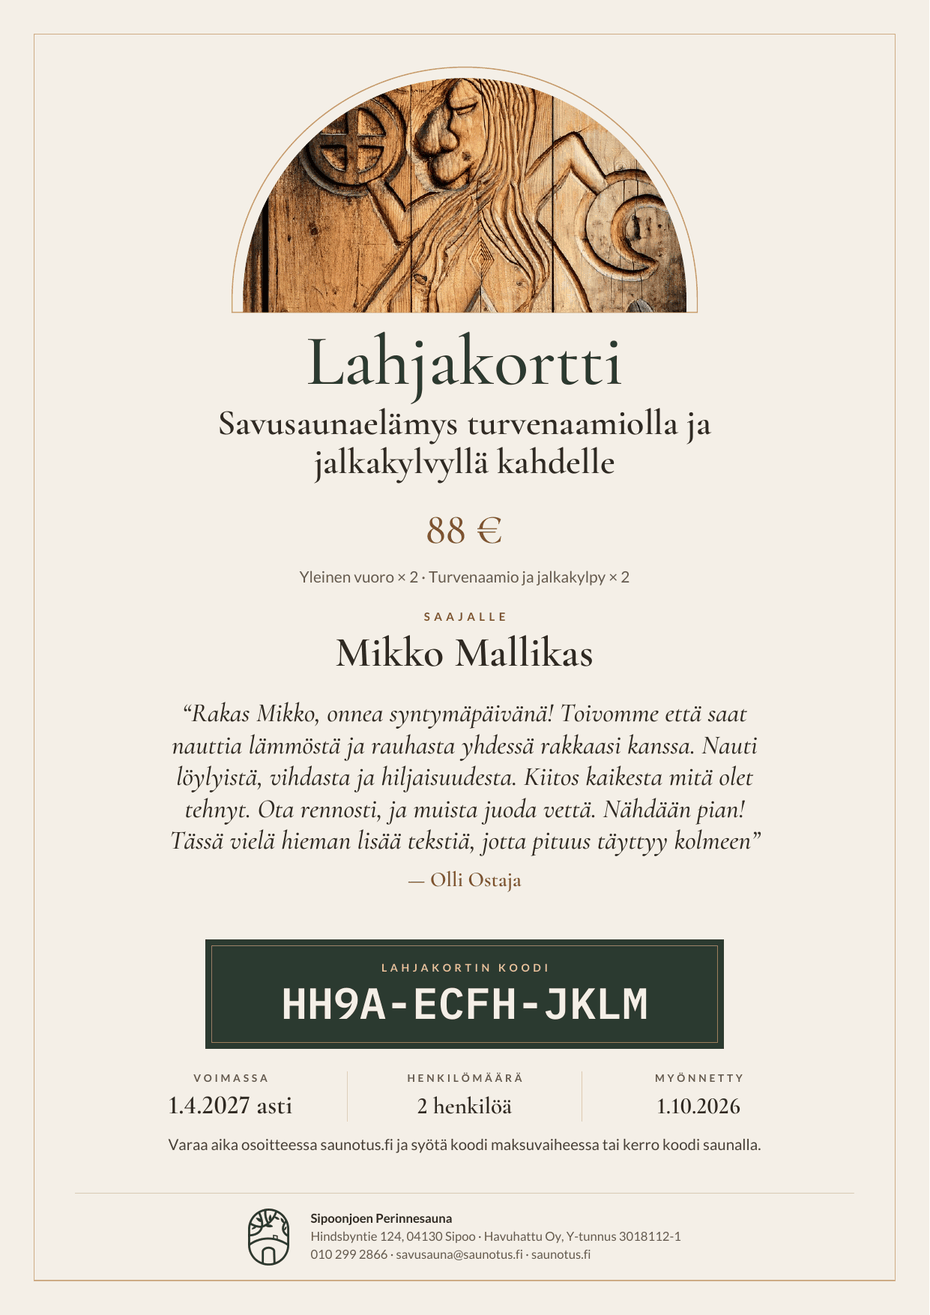
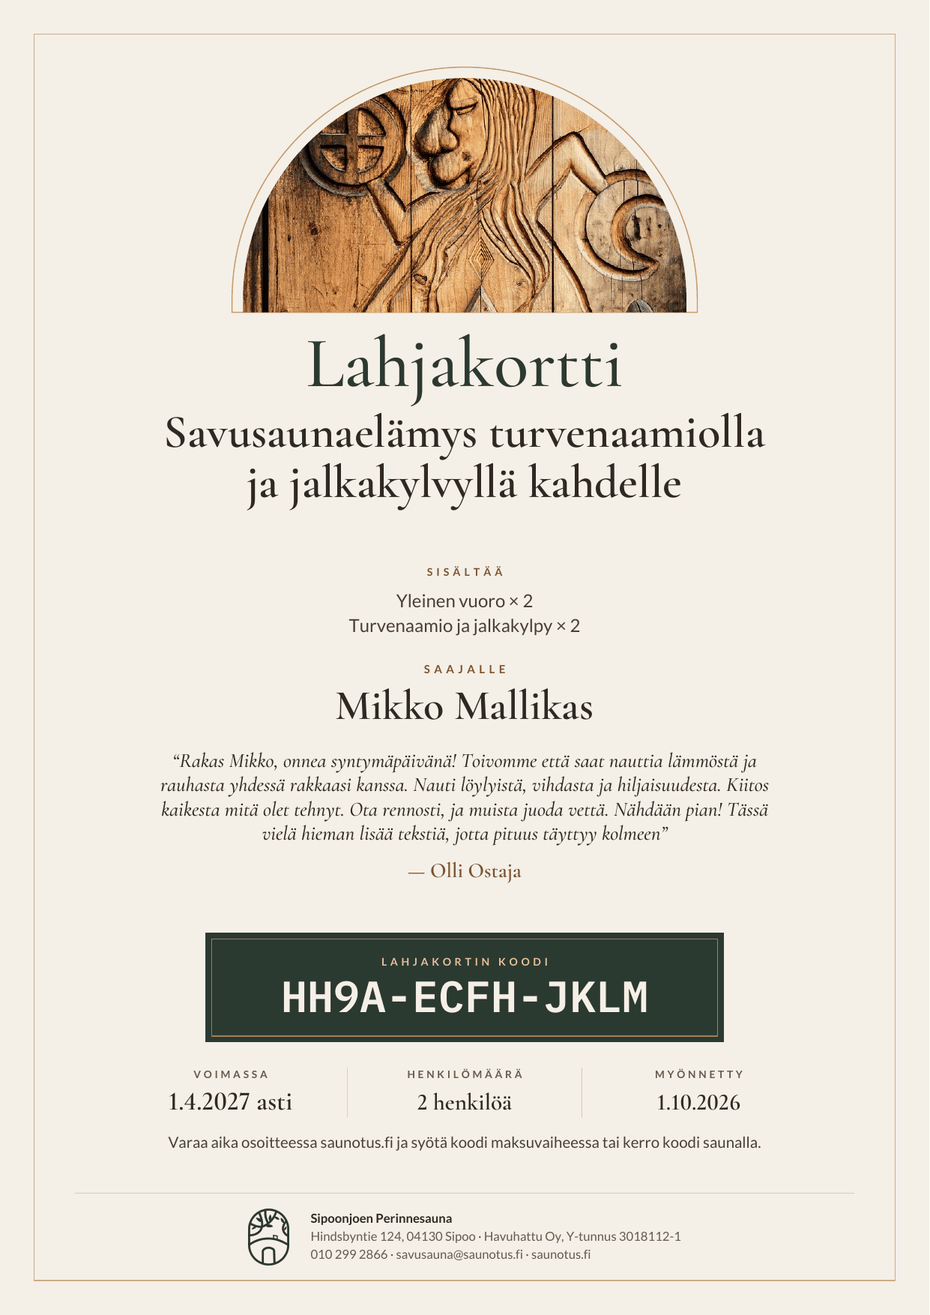
Lahjakortti-PDF ja saajan sähköposti: pakettihintaa ei näytetä saajalle (hinta vain avoimessa summakortissa); asettelu tasapainotettu, testit ja docs päivitetty

Changed region(s): [[0.1559, 0.2494, 0.8419, 0.873], [0.4054, 0.2494, 0.4366, 0.2806]]

diff --git a/booking/supabase/functions/gift-card-pdf/render.ts b/booking/supabase/functions/gift-card-pdf/render.ts
@@ -52,6 +52,11 @@ const money = (n: number, en: boolean): string => {
 const stripProto = (u: string) => String(u ?? "").replace(/^https?:\/\//, "").replace(/\/$/, "");
 const unb64 = (s: string) => Uint8Array.from(atob(s), (c) => c.charCodeAt(0));
 
+/** Avoin summakortti? */
+export const isOpenCard = (d: any): boolean => !!(d?.package?.is_open) || d?.kind === "value" && !d?.package_code || d?.package_code === "open";
+/** Näytetäänkö hinta/arvo PDF:ssä: vain avoimessa summakortissa (ja Johku-kortilla); lahjakorttipaketilla ei. */
+export const showsPrice = (d: any): boolean => isOpenCard(d) || d?.source === "johku";
+
 export interface LogoImage { bytes: Uint8Array }
 
 export async function buildGiftCardPdf(d: any, logo?: Uint8Array | null, langOverride?: string): Promise<Uint8Array> {
@@ -73,9 +78,11 @@ export async function buildGiftCardPdf(d: any, logo?: Uint8Array | null, langOve
   const photo = await pdf.embedJpg(unb64(PHOTO_B64.photo_arch));   // oven veistos, upotetaan kerran
 
   // ---------- sisältömalli ----------
-  const isOpen = !!(d.package?.is_open) || d.kind === "value" && !d.package_code || d.package_code === "open";
+  const isOpen = isOpenCard(d);
   const pkgName = isOpen ? (en ? "Valid for all our services" : "Käy kaikkiin palveluihimme")
     : san((en ? d.package?.name_en : d.package?.name) ?? d.package?.name ?? (en ? "Smoke sauna gift card" : "Savusaunalahjakortti"));
+  // hinta näytetään vain avoimessa summakortissa (ja Johku-kortilla); lahjakorttipaketilla ei (saaja ei näe pakettihintaa)
+  const hidePrice = !showsPrice(d);
   const value = money(Number(d.initial_amount ?? 0), en);
   const recipient = san(d.recipient_name), buyer = san(d.buyer_name), greeting = sanGreeting(d.greeting);
   const items: any[] = isOpen ? [] : (Array.isArray(d.package?.items) ? d.package.items : []);
@@ -83,7 +90,7 @@ export async function buildGiftCardPdf(d: any, logo?: Uint8Array | null, langOve
   const meta: [string, string][] = [];
   const validTxt = d.valid_to ? (en ? dateOnly(d.valid_to, true) : `${dateOnly(d.valid_to, false)} asti`) : "";
   if (!isOpen && d.package?.persons) meta.push([en ? "Persons" : "Henkilömäärä", en ? `${d.package.persons} persons` : `${d.package.persons} henkilöä`]);
-  if (Math.abs(Number(d.balance ?? 0) - Number(d.initial_amount ?? 0)) > 0.004) meta.push([en ? "Balance" : "Saldo", money(Number(d.balance ?? 0), en)]);
+  if (!hidePrice && Math.abs(Number(d.balance ?? 0) - Number(d.initial_amount ?? 0)) > 0.004) meta.push([en ? "Balance" : "Saldo", money(Number(d.balance ?? 0), en)]);
   meta.push([en ? "Issued" : "Myönnetty", helsinkiDate(d.issued_at, en)]);
   const web = stripProto(S.web ?? "saunotus.fi");
   const how = d.redeemable_now
@@ -168,7 +175,7 @@ export async function buildGiftCardPdf(d: any, logo?: Uint8Array | null, langOve
 
   // Asettelu: kaari (keskitetty, print-turvallinen: kaikki marginaalin sisällä, ei täysreunakuvaa)
   function layoutKaari() {
-    const M = 22, cx = W / 2, colW = 396, archTop = 50, archW = 284;
+    const M = 22, cx = W / 2, colW = 396, archTop = 50, archWMax = 284;
     const title = en ? "Gift card" : "Lahjakortti", titleSz = 46;
     const logoH = 36, fs = 8, flh = 11.5, footBlockH = Math.max(footLines.length * flh, logoImg ? logoH : 0);
     const footTop = H - M - 16 - footBlockH;
@@ -180,6 +187,7 @@ export async function buildGiftCardPdf(d: any, logo?: Uint8Array | null, langOve
     /** Piirtää koko sisällön; palauttaa viimeisen rivin perusviivan. Kuivakierroksella `page` on väliaikainen sivu. */
     const flow = (archH: number, gap: number, gsz: number): number => {
       // kaari
+      const archW = Math.min(archWMax, archH * 1.9);   // matala kaari kapenee, jotta puoliympyrä pysyy kelvollisena
       const ax = cx - archW / 2;
       page.drawSvgPath(archSvg(archW + 14, archH + 7), { x: ax - 7, y: yb(archTop - 7), borderColor: C.accent, borderWidth: 0.7 });
       clipOps(archOps(ax, archTop, archW, archH));
@@ -191,13 +199,23 @@ export async function buildGiftCardPdf(d: any, logo?: Uint8Array | null, langOve
       // tarjous
       if (isOpen) {
         t += 38; txt(value, cx, t, 46, serif, C.gold, "c"); t += 28; txt(pkgName, cx, t, 16, serifI, C.text, "c"); t += 6;
-      } else {
+      } else if (!hidePrice) {      // Johku-kortti: ennallaan (nimi + arvo + sisältö)
         let nsz = 23; let nl = wrap(pkgName, serifB, nsz, colW); if (nl.length > 2) { nsz = 19; nl = wrap(pkgName, serifB, nsz, colW); }
         t += nsz * 0.7;
         for (const l of nl.slice(0, 3)) { txt(l, cx, t, nsz, serifB, C.ink, "c"); t += nsz * 1.08; }
         t += 6; txt(value, cx, t + 14, 26, serif, C.gold, "c"); t += 20;
         const il = wrap(itemLines.join("   ·   "), sans, 10, colW);
         if (il.length) { t += 6; for (const l of il) { t += 13.5; txt(l, cx, t, 10, sans, C.muted, "c"); } }
+      } else {                      // lahjakorttipaketti: EI hintaa; paketin nimi ja sisältö isommin esille
+        let nsz = 30; let nl = wrap(pkgName, serifB, nsz, colW);
+        for (const s2 of [26, 22, 19]) { if (nl.length <= 2) break; nsz = s2; nl = wrap(pkgName, serifB, nsz, colW); }
+        t += nsz * 0.72;
+        for (const l of nl.slice(0, 3)) { txt(l, cx, t, nsz, serifB, C.ink, "c"); t += nsz * 1.08; }
+        const il = itemLines.flatMap((l) => wrap(l, sans, 11.5, colW));
+        if (il.length) {
+          t += 12; caps(en ? "Includes" : "Sisältää", cx, t + 6, 6.8, sansB, C.gold, 2.4, "c"); t += 10;
+          for (const l of il) { t += 16; txt(l, cx, t, 11.5, sans, C.text, "c"); }
+        }
       }
       t += gap * 1.3;
       // saaja + tervehdys
@@ -243,9 +261,10 @@ export async function buildGiftCardPdf(d: any, logo?: Uint8Array | null, langOve
 
     // kuivakierros väliaikaisella sivulla: valitaan tervehdyksen koko ja kaaren korkeus niin, että sisältö täyttää sivun
     const realPage = page; const dry = pdf.addPage([W, H]); page = dry;
-    const MIN_ARCH = 150, MAX_ARCH = 340;
+    let MIN_ARCH = 150; const MAX_ARCH = 340;
     let gsz = gStart;
-    for (const c of [gStart, 20, 18, 17, 16, 15, 14, 13].filter((c) => c <= gStart)) { gsz = c; if (flow(MIN_ARCH, 14, c) <= target) break; }
+    const pick = () => { for (const c of [gStart, 20, 18, 17, 16, 15, 14, 13].filter((c) => c <= gStart)) { gsz = c; if (flow(MIN_ARCH, 14, c) <= target) return true; } return false; };
+    if (!pick()) { MIN_ARCH = 118; pick(); }       // ei mahdu: ensin pienempi tervehdys, sitten matalampi kaari
     const slack = target - flow(MIN_ARCH, 14, gsz);
     const g1 = Math.min(Math.max(slack, 0) / 6, 9);                         // ensin ilmaa väleihin (korkeintaan +9 pt)
     const archH = Math.max(MIN_ARCH, Math.min(MAX_ARCH, MIN_ARCH + slack - g1 * 6));

diff --git a/booking/supabase/functions/gift-card-pdf/test_render.ts b/booking/supabase/functions/gift-card-pdf/test_render.ts
@@ -1,6 +1,6 @@
 // Ajo: deno run -A --node-modules-dir=none test_render.ts   (kirjoittaa out_*.pdf tämän kansion viereen; OUT_DIR=... vaihtaa kohteen)
 import { PDFDocument } from "npm:pdf-lib@1.17.1";
-import { buildGiftCardPdf, san, sanGreeting } from "./render.ts";
+import { buildGiftCardPdf, san, sanGreeting, showsPrice } from "./render.ts";
 const logo = await Deno.readFile(new URL("../../../docs/giftcards/logo.png", import.meta.url));
 const seller = { name: "Havuhattu Oy / Sipoonjoen perinnesauna", legal_name: "Havuhattu Oy", business_id: "3018112-1", address: "Hindsbyntie 124", zip: "04130", city: "Sipoo", email: "savusauna@saunotus.fi", phone: "010 299 2866", web: "https://saunotus.fi" };
 const longG = ("Rakas Mikko, onnea syntymäpäivänä! Toivomme että saat nauttia lämmöstä ja rauhasta yhdessä rakkaasi kanssa. Nauti löylyistä, vihdasta ja hiljaisuudesta. Kiitos kaikesta mitä olet tehnyt. Ota rennosti, ja muista juoda vettä. Nähdään pian! Tässä vielä hieman lisää tekstiä, jotta pituus täyttyy kolmeensataan merkkiin asti. Ok.").slice(0, 300);
@@ -36,6 +36,10 @@ for (const [k, v] of Object.entries(cases)) {
 // 'fi'-ohitus
 const b2 = await buildGiftCardPdf(cases.en_open, logo, "fi"); await Deno.writeFile(`${outDir}/out_en_open_as_fi.pdf`, b2);
 const b3 = await buildGiftCardPdf(cases.fi_open, logo, "en"); await Deno.writeFile(`${outDir}/out_fi_open_as_en.pdf`, b3);
+// hinta vain avoimessa summakortissa (+ Johku); paketilla ei
+check(!showsPrice(cases.fi_pkg_greet) && !showsPrice(cases.en_pkg_greet) && !showsPrice(cases.fi_pkg_4items_long_name) && !showsPrice(cases.fi_pkg_expired), "paketti: hintaa ei saa näyttää");
+check(showsPrice(cases.fi_open) && showsPrice(cases.en_open) && showsPrice(cases.fi_open_partial_greet) && showsPrice(cases.fi_emoji_expired), "avoin kortti: hinta näytetään");
+check(showsPrice(cases.johku_used), "Johku-kortti: ennallaan (hinta näkyy)");
 // siivous
 check(san("Moi 😀 šäö €") === "Moi ? säö €", "san emoji/aksentti");
 check(sanGreeting("a\r\n\n\n\nb  \n c") === "a\n\nb\nc", "sanGreeting rivinvaihdot");

diff --git a/booking/supabase/functions/send-emails/test_gift_templates.ts b/booking/supabase/functions/send-emails/test_gift_templates.ts
@@ -9,6 +9,9 @@ for (const [k, d, l, check] of [
   ["gift_card_buyer", { ...base, gift_cards: [g({ ...sched, delivery_to: "recipient", locale: "en" })] }, "en", (r: any) => must(r.text.includes("on 24 Dec 2026 at 14:30") && r.subject.includes("order is confirmed"), "buyer EN scheduled")],
   ["gift_card_recipient", { ...base, redeem_online: true, gift_cards: [g({ delivery_to: "recipient", cover_message: "Hei Mikko,\nTässä saate <b>&" })] }, "fi", (r: any) => must(r.text.includes("Tässä saate") && r.text.includes("— Olli Ostaja") && r.text.includes("gift-card-pdf?t=") && !r.text.includes("Kortin tervehdys") && r.html.includes("&lt;b&gt;") && !r.html.includes("<b>&"), "recipient cover")],
   ["gift_card_recipient", { ...base, gift_cards: [g({ delivery_to: "recipient", locale: "en", cover_message: null, buyer_name: null })] }, "en", (r: any) => must(r.subject.includes("received a gift card") && !r.text.includes('"'), "recipient EN no cover")],
+  ["gift_card_recipient", { ...base, gift_cards: [g({ delivery_to: "recipient" })] }, "fi", (r: any) => must(!/192|€/.test(r.text) && !/192|€/.test(r.html.replace(/<style[\s\S]*?<\/style>/g, "")) && r.text.includes("2 henkilöä"), "saajan viestissä ei pakettihintaa")],
+  ["gift_card_recipient", { ...base, gift_cards: [g({ delivery_to: "recipient", package_code: "open", kind: "value", amount: 50.5, locale: "en" })] }, "en", (r: any) => must(r.text.includes("€50.50"), "saajan viestissä avoimen kortin arvo näkyy")],
+  ["gift_card_buyer", { ...base, to_name: "Olli Ostaja", gift_cards: [g()] }, "fi", (r: any) => must(r.text.includes("192"), "ostajan viestissä hinta saa näkyä")],
   ["gift_card_buyer", { ...base, gift_cards: [g({ locale: "en" })] }, "en", (r: any) => must(r.text.includes("PDF:") && r.text.includes("share it only"), "buyer EN direct")],
 ] as any) {
   const r = render(k, d, l); check(r); out.push(r); console.log("=====", k, l, "\nSUBJECT:", r.subject, "\n" + r.text);

diff --git a/booking/supabase/functions/send-emails/templates.ts b/booking/supabase/functions/send-emails/templates.ts
@@ -130,7 +130,8 @@ function giftCardMail(kind: "gift_card_buyer" | "gift_card_recipient", d: any, e
   const hhmm = (s: string) => en ? s : s.replace(":", ".");
   for (const g of cards) {
     const url = gcUrl(d, g, en);
-    const meta = [gcAmt(g.amount, en), g.persons && !gcOpen(g) ? (en ? `${g.persons} guests` : `${g.persons} henkilöä`) : "", g.valid_to ? (en ? `valid until ${gcDate(g.valid_to, true)}` : `voimassa ${gcDate(g.valid_to, false)} asti`) : "", buyer && g.recipient_name ? (en ? `for ${g.recipient_name}` : `saaja: ${g.recipient_name}`) : ""].filter(Boolean).join(" · ");
+    const showAmt = buyer || gcOpen(g) || !g.package_code;   // saajan viestissä ei pakettihintaa (vain avoimen kortin arvo); ostajan vahvistuksessa hinta saa näkyä
+    const meta = [showAmt ? gcAmt(g.amount, en) : "", g.persons && !gcOpen(g) ? (en ? `${g.persons} guests` : `${g.persons} henkilöä`) : "", g.valid_to ? (en ? `valid until ${gcDate(g.valid_to, true)}` : `voimassa ${gcDate(g.valid_to, false)} asti`) : "", buyer && g.recipient_name ? (en ? `for ${g.recipient_name}` : `saaja: ${g.recipient_name}`) : ""].filter(Boolean).join(" · ");
     const who = [g.recipient_name, g.recipient_email].filter(Boolean).join(", ");
     const when = g.deliver_at ? `${gcDate(g.deliver_on, en)}${g.deliver_time ? (en ? ` at ${g.deliver_time}` : ` klo ${hhmm(g.deliver_time)}`) : ""}` : "";
     const deliv = !buyer || toBuyer(g) ? "" : g.deliver_at
